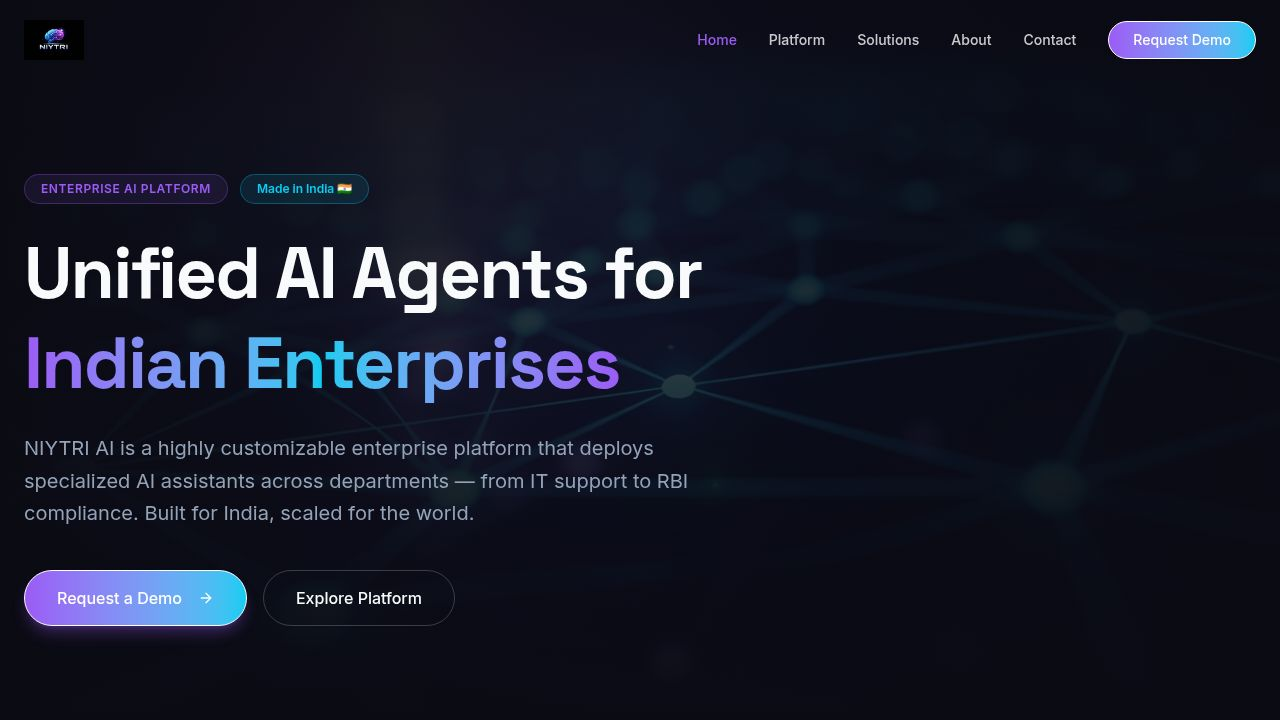
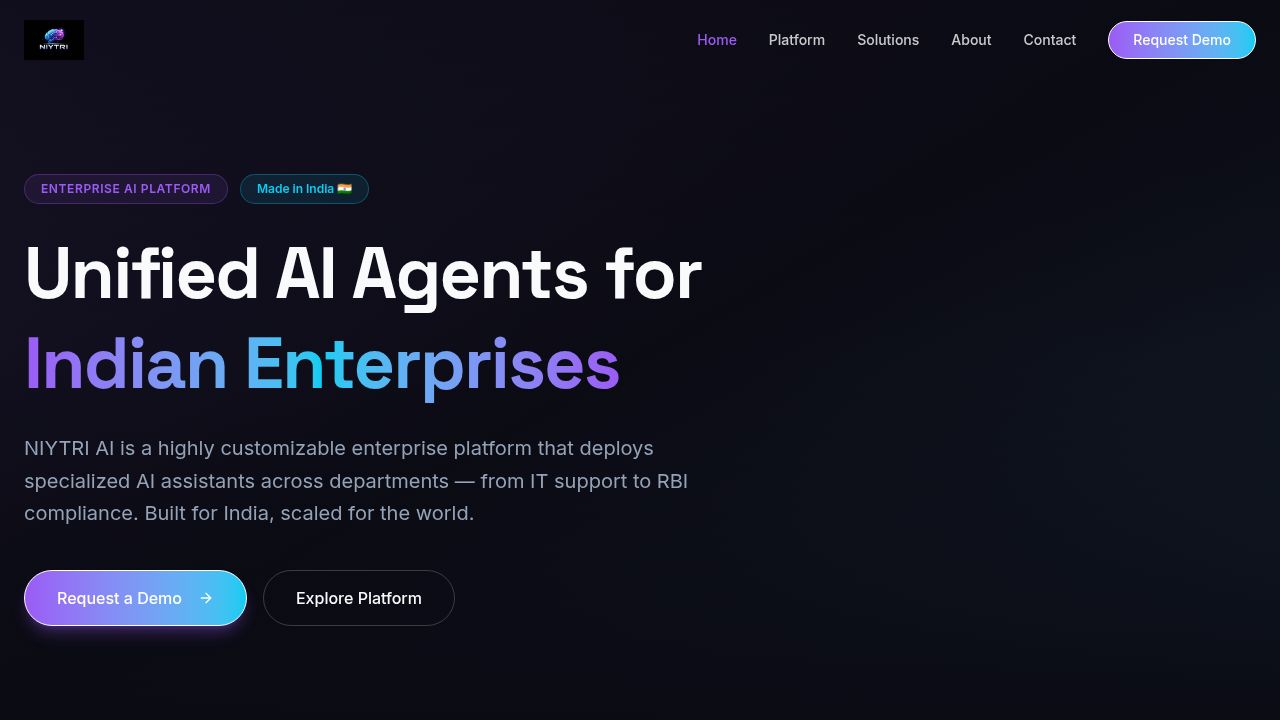
Fix website loading error by replacing missing background image
Remove broken image import and implement CSS gradient backgrounds in the hero section of the home page.

Replit-Commit-Author: Agent
Replit-Commit-Session-Id: 07a28d85-115a-4fc4-bc71-0927c03fdb37
Replit-Commit-Checkpoint-Type: full_checkpoint
Replit-Commit-Event-Id: 3b34d665-0eec-4746-8ae1-61e721a19a7c
Replit-Commit-Screenshot-Url: https://storage.googleapis.com/screenshot-production-us-central1/dc35bcc5-e76e-4a7b-a84a-16c89748537b/07a28d85-115a-4fc4-bc71-0927c03fdb37/9sMFnDl
Replit-Helium-Checkpoint-Created: true

diff --git a/client/src/pages/home.tsx b/client/src/pages/home.tsx
@@ -23,7 +23,6 @@ import {
 import { Button } from "@/components/ui/button";
 import Navbar from "@/components/layout/navbar";
 import Footer from "@/components/layout/footer";
-import heroBg from "@assets/generated_images/abstract_dark_neural_network_background_with_glowing_nodes.png";
 
 const fadeInUp = {
   initial: { opacity: 0, y: 30 },
@@ -132,13 +131,10 @@ export default function Home() {
       {/* Hero Section */}
       <section className="relative min-h-screen flex items-center pt-20 overflow-hidden">
         <div className="absolute inset-0 z-0">
-          <img
-            src={heroBg}
-            alt="Neural Network"
-            className="w-full h-full object-cover opacity-50"
-          />
-          <div className="absolute inset-0 bg-gradient-to-b from-background/90 via-background/60 to-background z-10" />
-          <div className="absolute inset-0 bg-gradient-to-r from-background via-transparent to-background/80 z-10" />
+          <div className="absolute inset-0 bg-gradient-to-br from-primary/20 via-background to-secondary/20" />
+          <div className="absolute inset-0 bg-[radial-gradient(ellipse_at_top_right,_var(--tw-gradient-stops))] from-primary/30 via-transparent to-transparent" />
+          <div className="absolute inset-0 bg-[radial-gradient(ellipse_at_bottom_left,_var(--tw-gradient-stops))] from-secondary/20 via-transparent to-transparent" />
+          <div className="absolute inset-0 bg-gradient-to-b from-background/80 via-background/40 to-background z-10" />
         </div>
 
         <div className="container mx-auto px-6 relative z-20">